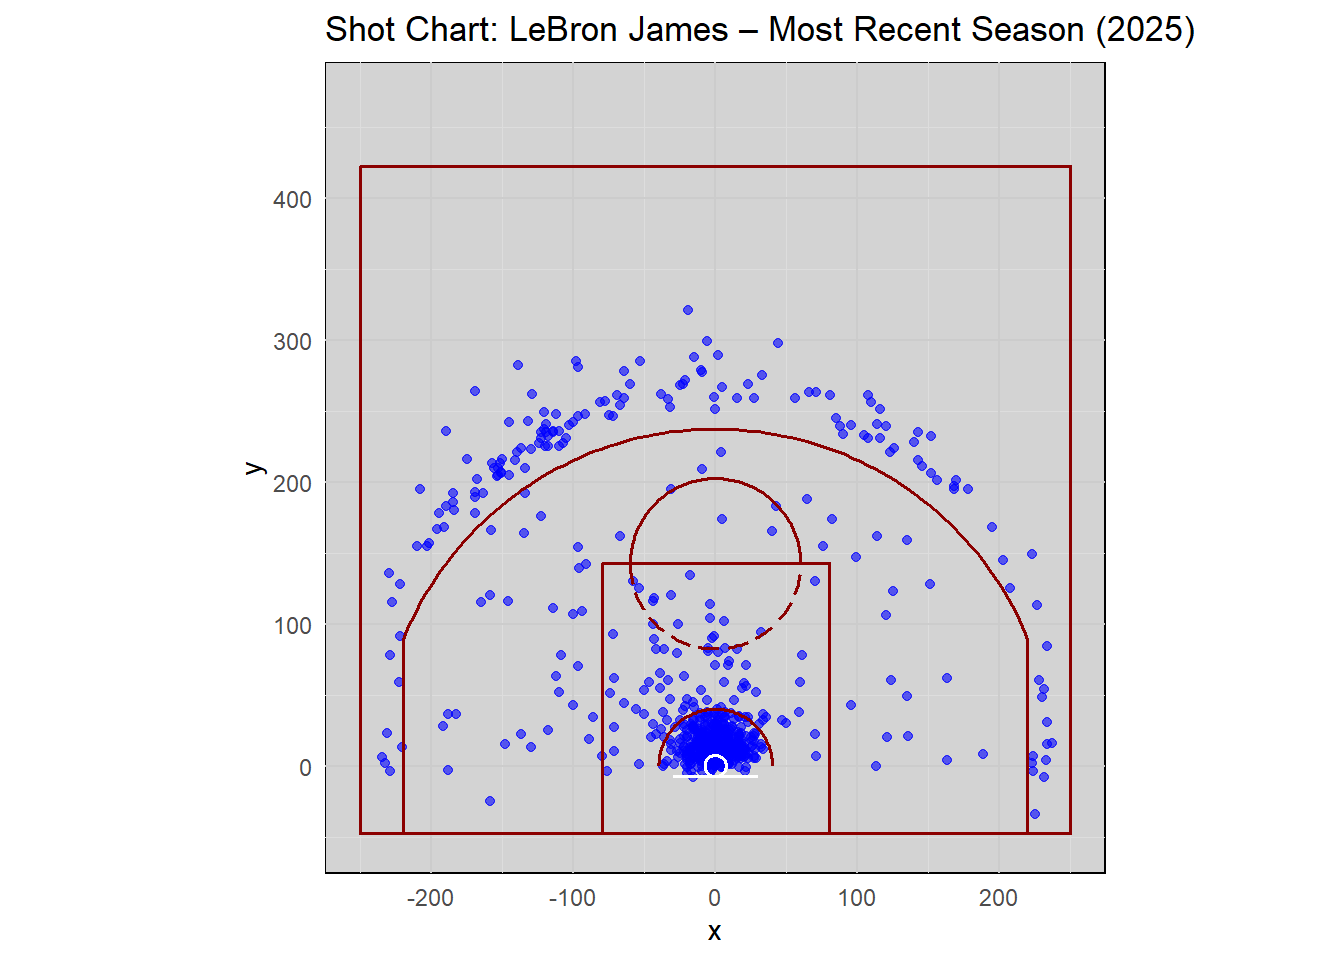
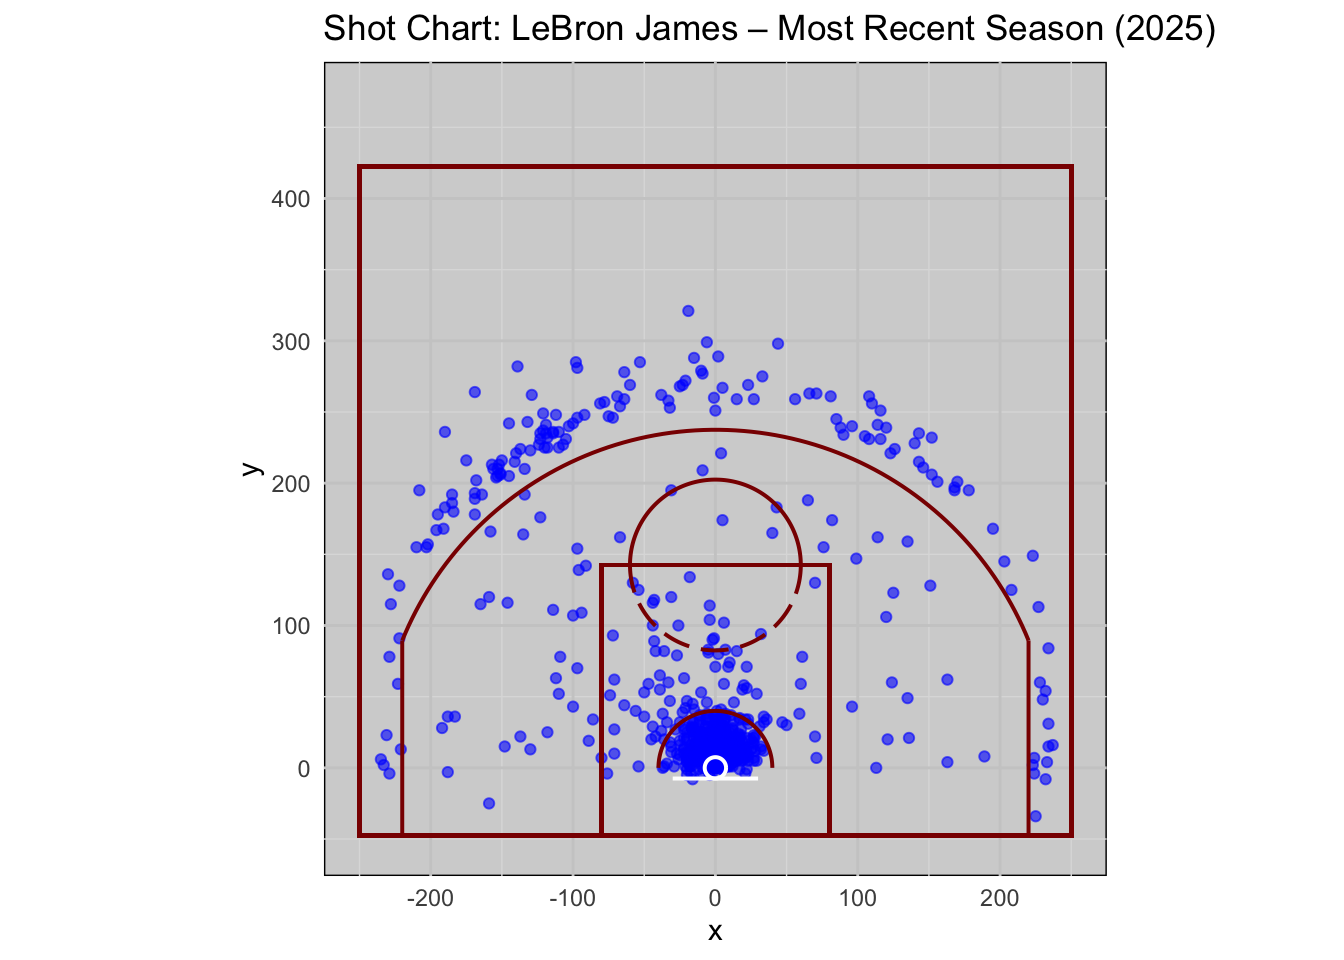
changed quarto yml again

diff --git a/docs/index.html b/docs/index.html
@@ -2,7 +2,7 @@
 <html xmlns="http://www.w3.org/1999/xhtml" lang="en" xml:lang="en"><head>
 
 <meta charset="utf-8">
-<meta name="generator" content="quarto-1.5.57">
+<meta name="generator" content="quarto-1.6.40">
 
 <meta name="viewport" content="width=device-width, initial-scale=1.0, user-scalable=yes">
 
@@ -39,12 +39,12 @@ ul.task-list li input[type="checkbox"] {
 <script src="site_libs/quarto-html/tippy.umd.min.js"></script>
 <script src="site_libs/quarto-html/anchor.min.js"></script>
 <link href="site_libs/quarto-html/tippy.css" rel="stylesheet">
-<link href="site_libs/quarto-html/quarto-syntax-highlighting.css" rel="stylesheet" class="quarto-color-scheme" id="quarto-text-highlighting-styles">
-<link href="site_libs/quarto-html/quarto-syntax-highlighting-dark.css" rel="prefetch" class="quarto-color-scheme quarto-color-alternate" id="quarto-text-highlighting-styles">
+<link href="site_libs/quarto-html/quarto-syntax-highlighting-549806ee2085284f45b00abea8c6df48.css" rel="stylesheet" class="quarto-color-scheme" id="quarto-text-highlighting-styles">
+<link href="site_libs/quarto-html/quarto-syntax-highlighting-dark-8ea72dc5fed832574809a9c94082fbbb.css" rel="prefetch" class="quarto-color-scheme quarto-color-alternate" id="quarto-text-highlighting-styles">
 <script src="site_libs/bootstrap/bootstrap.min.js"></script>
 <link href="site_libs/bootstrap/bootstrap-icons.css" rel="stylesheet">
-<link href="site_libs/bootstrap/bootstrap.min.css" rel="stylesheet" class="quarto-color-scheme" id="quarto-bootstrap" data-mode="light">
-<link href="site_libs/bootstrap/bootstrap-dark.min.css" rel="prefetch" class="quarto-color-scheme quarto-color-alternate" id="quarto-bootstrap" data-mode="dark">
+<link href="site_libs/bootstrap/bootstrap-e846426629f353d263e112904baba500.min.css" rel="stylesheet" append-hash="true" class="quarto-color-scheme" id="quarto-bootstrap" data-mode="light">
+<link href="site_libs/bootstrap/bootstrap-dark-4889ea36da1ebf92e0baab29227ed795.min.css" rel="prefetch" append-hash="true" class="quarto-color-scheme quarto-color-alternate" id="quarto-bootstrap" data-mode="dark">
 <script id="quarto-search-options" type="application/json">{
   "location": "navbar",
   "copy-button": false,
@@ -105,7 +105,7 @@ ul.task-list li input[type="checkbox"] {
 <span class="menu-text">Clustering</span></a>
   </li>  
   <li class="nav-item">
-    <a class="nav-link" href="./yet-another-page.qmd"> <i class="bi bi-bezier2" role="img">
+    <a class="nav-link" href="./Network-page.html"> <i class="bi bi-bezier2" role="img">
 </i> 
 <span class="menu-text">Network Graph</span></a>
   </li>  
@@ -242,11 +242,6 @@ ul.task-list li input[type="checkbox"] {
 </div>
 </div>
 </div>
-<div class="cell">
-<div class="cell-output cell-output-stderr">
-<pre><code>Warning: package 'maps' was built under R version 4.4.3</code></pre>
-</div>
-</div>
 </section>
 <section id="spatial-analysis---lebrons-scoring-by-era" class="level2">
 <h2 class="anchored" data-anchor-id="spatial-analysis---lebrons-scoring-by-era">Spatial Analysis - LeBron’s Scoring by Era</h2>
@@ -278,7 +273,7 @@ ul.task-list li input[type="checkbox"] {
 <div class="cell-output-display">
 <div>
 <figure class="figure">
-<p><img src="index_files/figure-html/unnamed-chunk-8-1.png" class="img-fluid figure-img" width="672"></p>
+<p><img src="index_files/figure-html/unnamed-chunk-4-1.png" class="img-fluid figure-img" width="672"></p>
 </figure>
 </div>
 </div>
@@ -290,7 +285,7 @@ ul.task-list li input[type="checkbox"] {
 <div class="cell-output-display">
 <div>
 <figure class="figure">
-<p><img src="index_files/figure-html/unnamed-chunk-9-1.png" class="img-fluid figure-img" width="672"></p>
+<p><img src="index_files/figure-html/unnamed-chunk-5-1.png" class="img-fluid figure-img" width="672"></p>
 </figure>
 </div>
 </div>
@@ -301,7 +296,7 @@ ul.task-list li input[type="checkbox"] {
 <div class="cell-output-display">
 <div>
 <figure class="figure">
-<p><img src="index_files/figure-html/unnamed-chunk-10-1.png" class="img-fluid figure-img" width="672"></p>
+<p><img src="index_files/figure-html/unnamed-chunk-6-1.png" class="img-fluid figure-img" width="672"></p>
 </figure>
 </div>
 </div>
@@ -312,9 +307,46 @@ ul.task-list li input[type="checkbox"] {
 <div class="cell-output-display">
 <div>
 <figure class="figure">
-<p><img src="index_files/figure-html/unnamed-chunk-11-1.png" class="img-fluid figure-img" width="672"></p>
+<p><img src="index_files/figure-html/unnamed-chunk-7-1.png" class="img-fluid figure-img" width="672"></p>
 </figure>
 </div>
+</div>
+</div>
+</div>
+</div>
+</div>
+<p>The charts below provide a snapshot of this evolution — comparing his rookie season shot locations to those from his most recent campaign.</p>
+<ul>
+<li>Track the shift from interior-heavy scoring to a more balanced perimeter approach<br>
+</li>
+<li>Observe changes in shot clustering by zone<br>
+</li>
+<li>Reflect on how age, team context, and league-wide trends have reshaped his role</li>
+</ul>
+<div class="columns">
+<div class="column" style="width:50%;">
+<section id="rookie-season-2004-1" class="level4 text-center">
+<h4 class="anchored" data-anchor-id="rookie-season-2004-1">Rookie Season (2004)</h4>
+</section>
+<div class="cell">
+<div class="cell-output-display">
+<div>
+<figure class="figure">
+<p><img src="index_files/figure-html/shotchart-2004-two-1.png" class="img-fluid figure-img" width="672"></p>
+</figure>
+</div>
+</div>
+</div>
+</div><div class="column" style="width:50%;">
+<section id="most-recent-season-2025-1" class="level4 text-center">
+<h4 class="anchored" data-anchor-id="most-recent-season-2025-1">Most Recent Season (2025)</h4>
+</section>
+<div class="cell">
+<div class="cell-output-display">
+<div>
+<figure class="figure">
+<p><img src="index_files/figure-html/shotchart-2025-two-1.png" class="img-fluid figure-img" width="672"></p>
+</figure>
 </div>
 </div>
 </div>
@@ -551,8 +583,6 @@ window.document.addEventListener("DOMContentLoaded", function (event) {
   });
   clipboard.on('success', onCopySuccess);
   if (window.document.getElementById('quarto-embedded-source-code-modal')) {
-    // For code content inside modals, clipBoardJS needs to be initialized with a container option
-    // TODO: Check when it could be a function (https://github.com/zenorocha/clipboard.js/issues/860)
     const clipboardModal = new window.ClipboardJS('.code-copy-button[data-in-quarto-modal]', {
       text: getTextToCopy,
       container: window.document.getElementById('quarto-embedded-source-code-modal')

diff --git a/docs/Sourcing.html b/docs/Sourcing.html
@@ -2,7 +2,7 @@
 <html xmlns="http://www.w3.org/1999/xhtml" lang="en" xml:lang="en"><head>
 
 <meta charset="utf-8">
-<meta name="generator" content="quarto-1.6.42">
+<meta name="generator" content="quarto-1.6.40">
 
 <meta name="viewport" content="width=device-width, initial-scale=1.0, user-scalable=yes">
 
@@ -37,8 +37,8 @@ ul.task-list li input[type="checkbox"] {
 <script src="site_libs/quarto-html/tippy.umd.min.js"></script>
 <script src="site_libs/quarto-html/anchor.min.js"></script>
 <link href="site_libs/quarto-html/tippy.css" rel="stylesheet">
-<link href="site_libs/quarto-html/quarto-syntax-highlighting-2f5df379a58b258e96c21c0638c20c03.css" rel="stylesheet" class="quarto-color-scheme" id="quarto-text-highlighting-styles">
-<link href="site_libs/quarto-html/quarto-syntax-highlighting-dark-b53751a350365c71b6c909e95f209ed1.css" rel="prefetch" class="quarto-color-scheme quarto-color-alternate" id="quarto-text-highlighting-styles">
+<link href="site_libs/quarto-html/quarto-syntax-highlighting-549806ee2085284f45b00abea8c6df48.css" rel="stylesheet" class="quarto-color-scheme" id="quarto-text-highlighting-styles">
+<link href="site_libs/quarto-html/quarto-syntax-highlighting-dark-8ea72dc5fed832574809a9c94082fbbb.css" rel="prefetch" class="quarto-color-scheme quarto-color-alternate" id="quarto-text-highlighting-styles">
 <script src="site_libs/bootstrap/bootstrap.min.js"></script>
 <link href="site_libs/bootstrap/bootstrap-icons.css" rel="stylesheet">
 <link href="site_libs/bootstrap/bootstrap-e846426629f353d263e112904baba500.min.css" rel="stylesheet" append-hash="true" class="quarto-color-scheme" id="quarto-bootstrap" data-mode="light">
@@ -338,6 +338,13 @@ ul.task-list li input[type="checkbox"] {
 </tr>
 </tbody>
 </table>
+</div>
+<div class="cell-output-display">
+<div>
+<figure class="figure">
+<p><img src="Sourcing_files/figure-html/unnamed-chunk-2-1.png" class="img-fluid figure-img" width="672"></p>
+</figure>
+</div>
 </div>
 </div>
 </section>
